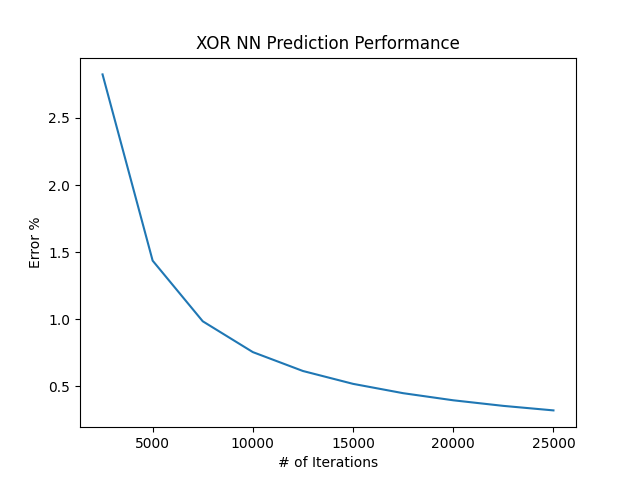
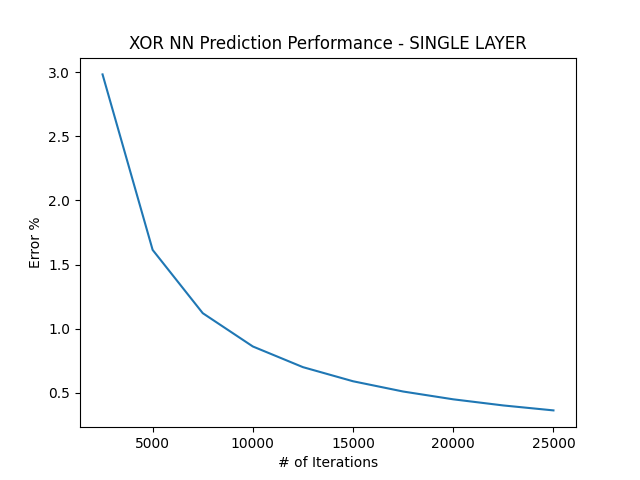
add figures, update plot libs, add error % to tf xor nn

diff --git a/tensorflow_xor_nn.py b/tensorflow_xor_nn.py
@@ -47,6 +47,12 @@ endTime = datetime.now()
 print("Ended script at: {}".format(endTime))
 print("Script execution time: {}\n".format(endTime - startTime))
 
-# Plot 
-plt.plot(predictions)
+# Calculate the error percentage values over the epochs
+error_percentage = [(1 - accuracy) * 100 for accuracy in history.history['binary_accuracy']]
+
+# Plot the error percentage values over the epochs
+plt.plot(error_percentage)
+plt.xlabel('# of Iterations')
+plt.ylabel('Error %')
+plt.title('XOR NN Prediction Performance - TENSORFLOW')
 plt.show()

diff --git a/single_layer_xor_nn.py b/single_layer_xor_nn.py
@@ -205,5 +205,5 @@ x, y = zip(*lists) # unpack a list of pairs into two tuples
 plt.plot(x, y)
 plt.xlabel('# of Iterations')
 plt.ylabel('Error %')
-plt.title('XOR NN Prediction Performance')
+plt.title('XOR NN Prediction Performance - SINGLE LAYER')
 plt.show()

diff --git a/variable_layer_xor_nn.py b/variable_layer_xor_nn.py
@@ -152,4 +152,5 @@ x, y = zip(*lists)
 plt.plot(x, y)
 plt.xlabel('# of Iterations')
 plt.ylabel('Error %')
+plt.title('XOR NN Prediction Performance - VARIABLE LAYER')
 plt.show()

diff --git a/README.md b/README.md
@@ -1,5 +1,11 @@
 # xor-neural-network
 Neural Network models for a simple XOR logic gate, built in Python.
 
-### single_layer_xor.py - Figure 1
+### single_layer_xor_nn.py - Figure 1
 ![Figure_1.png](https://github.com/matthewlroy/xor-neural-network/blob/main/Figure_1.png)
+
+### variable_layer_xor_nn.py - Figure 2
+![Figure_2.png](https://github.com/matthewlroy/xor-neural-network/blob/main/Figure_2.png)
+
+### tensorflow_xor_nn.py - Figure 3
+![Figure_3.png](https://github.com/matthewlroy/xor-neural-network/blob/main/Figure_3.png)
